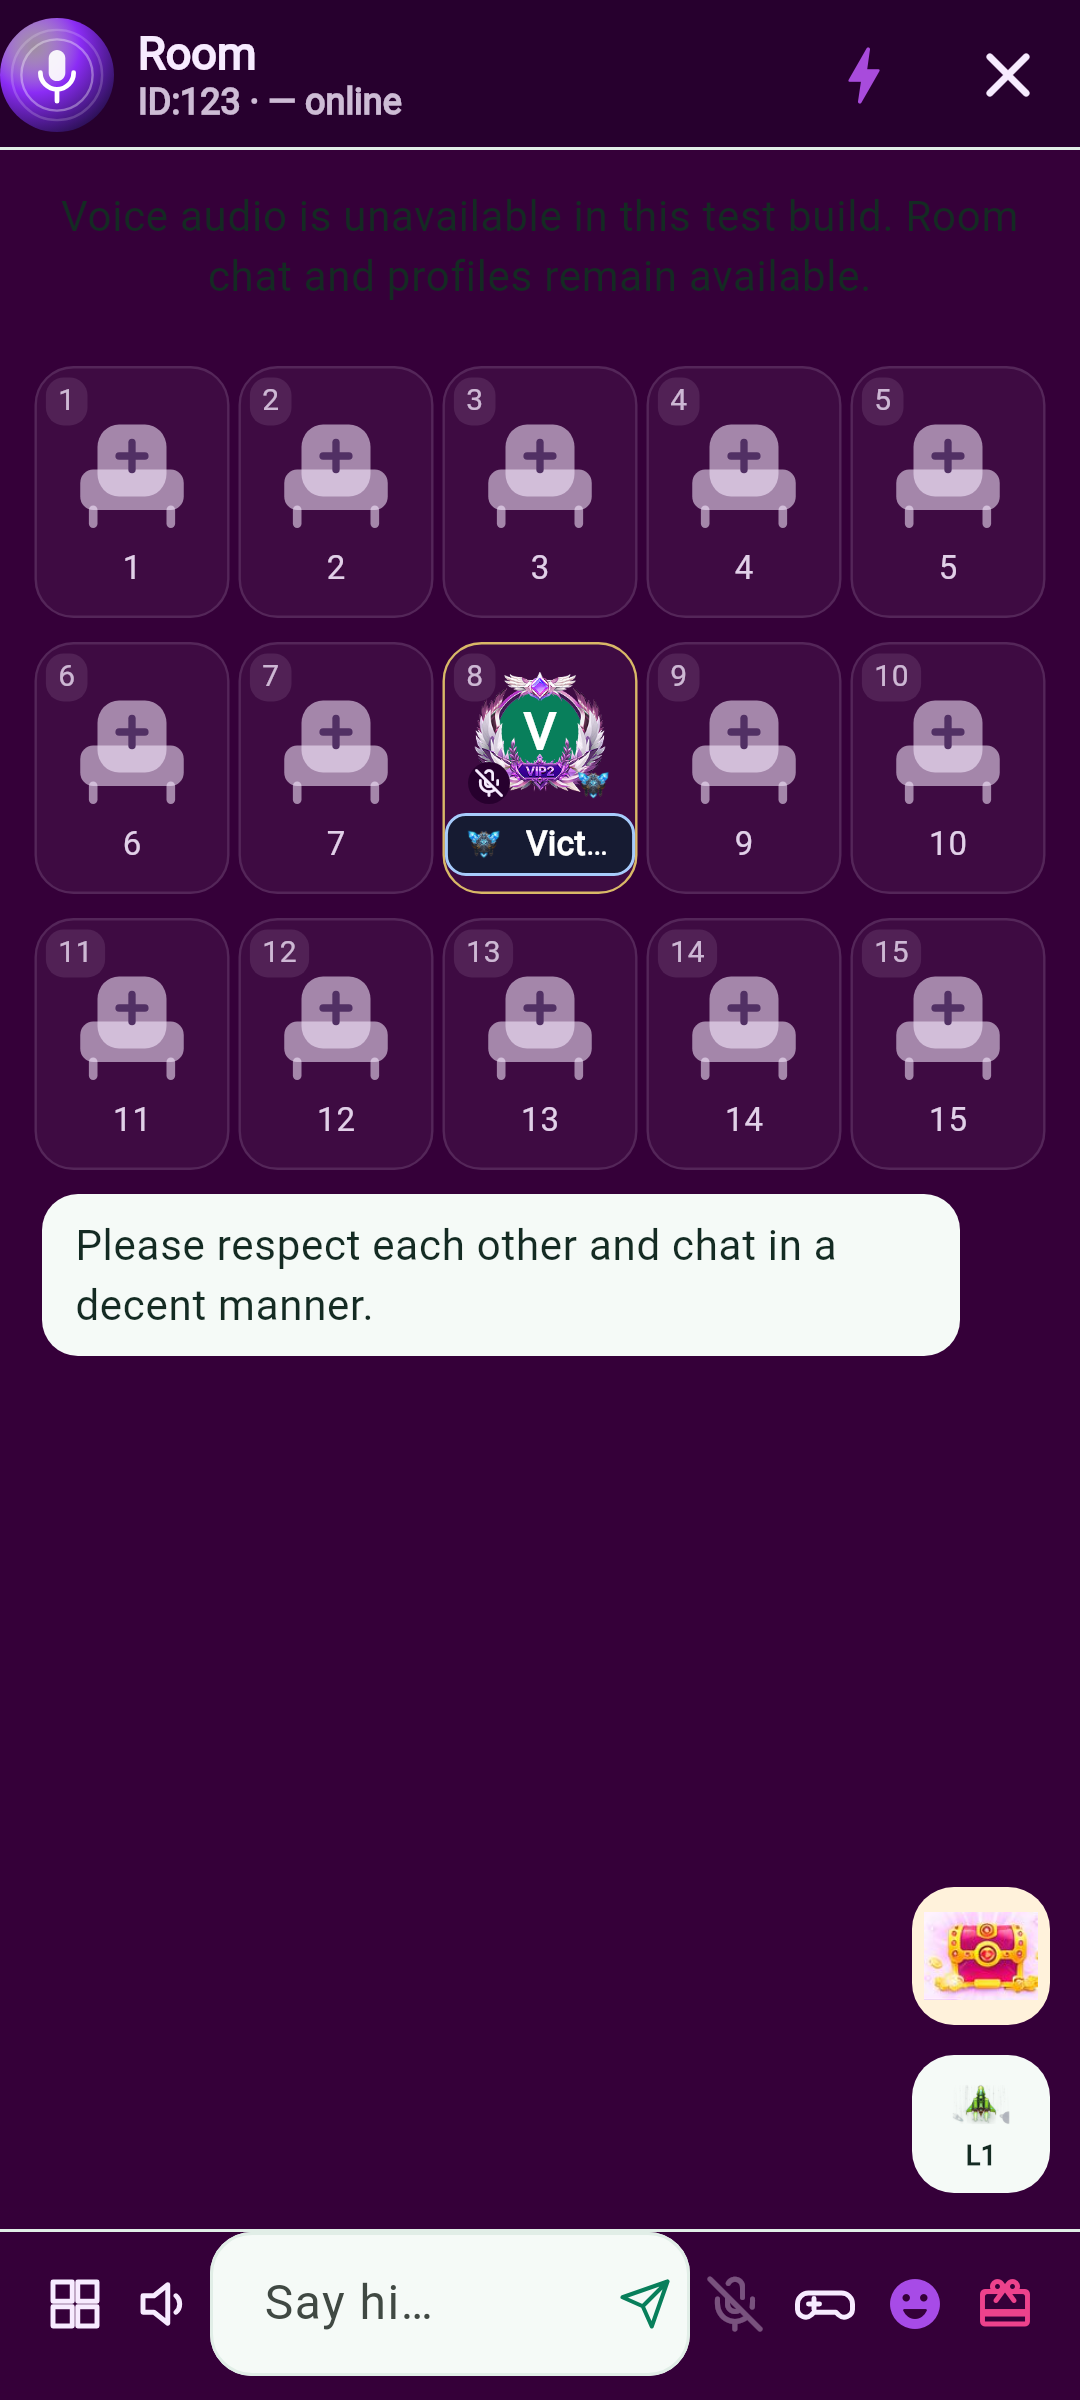
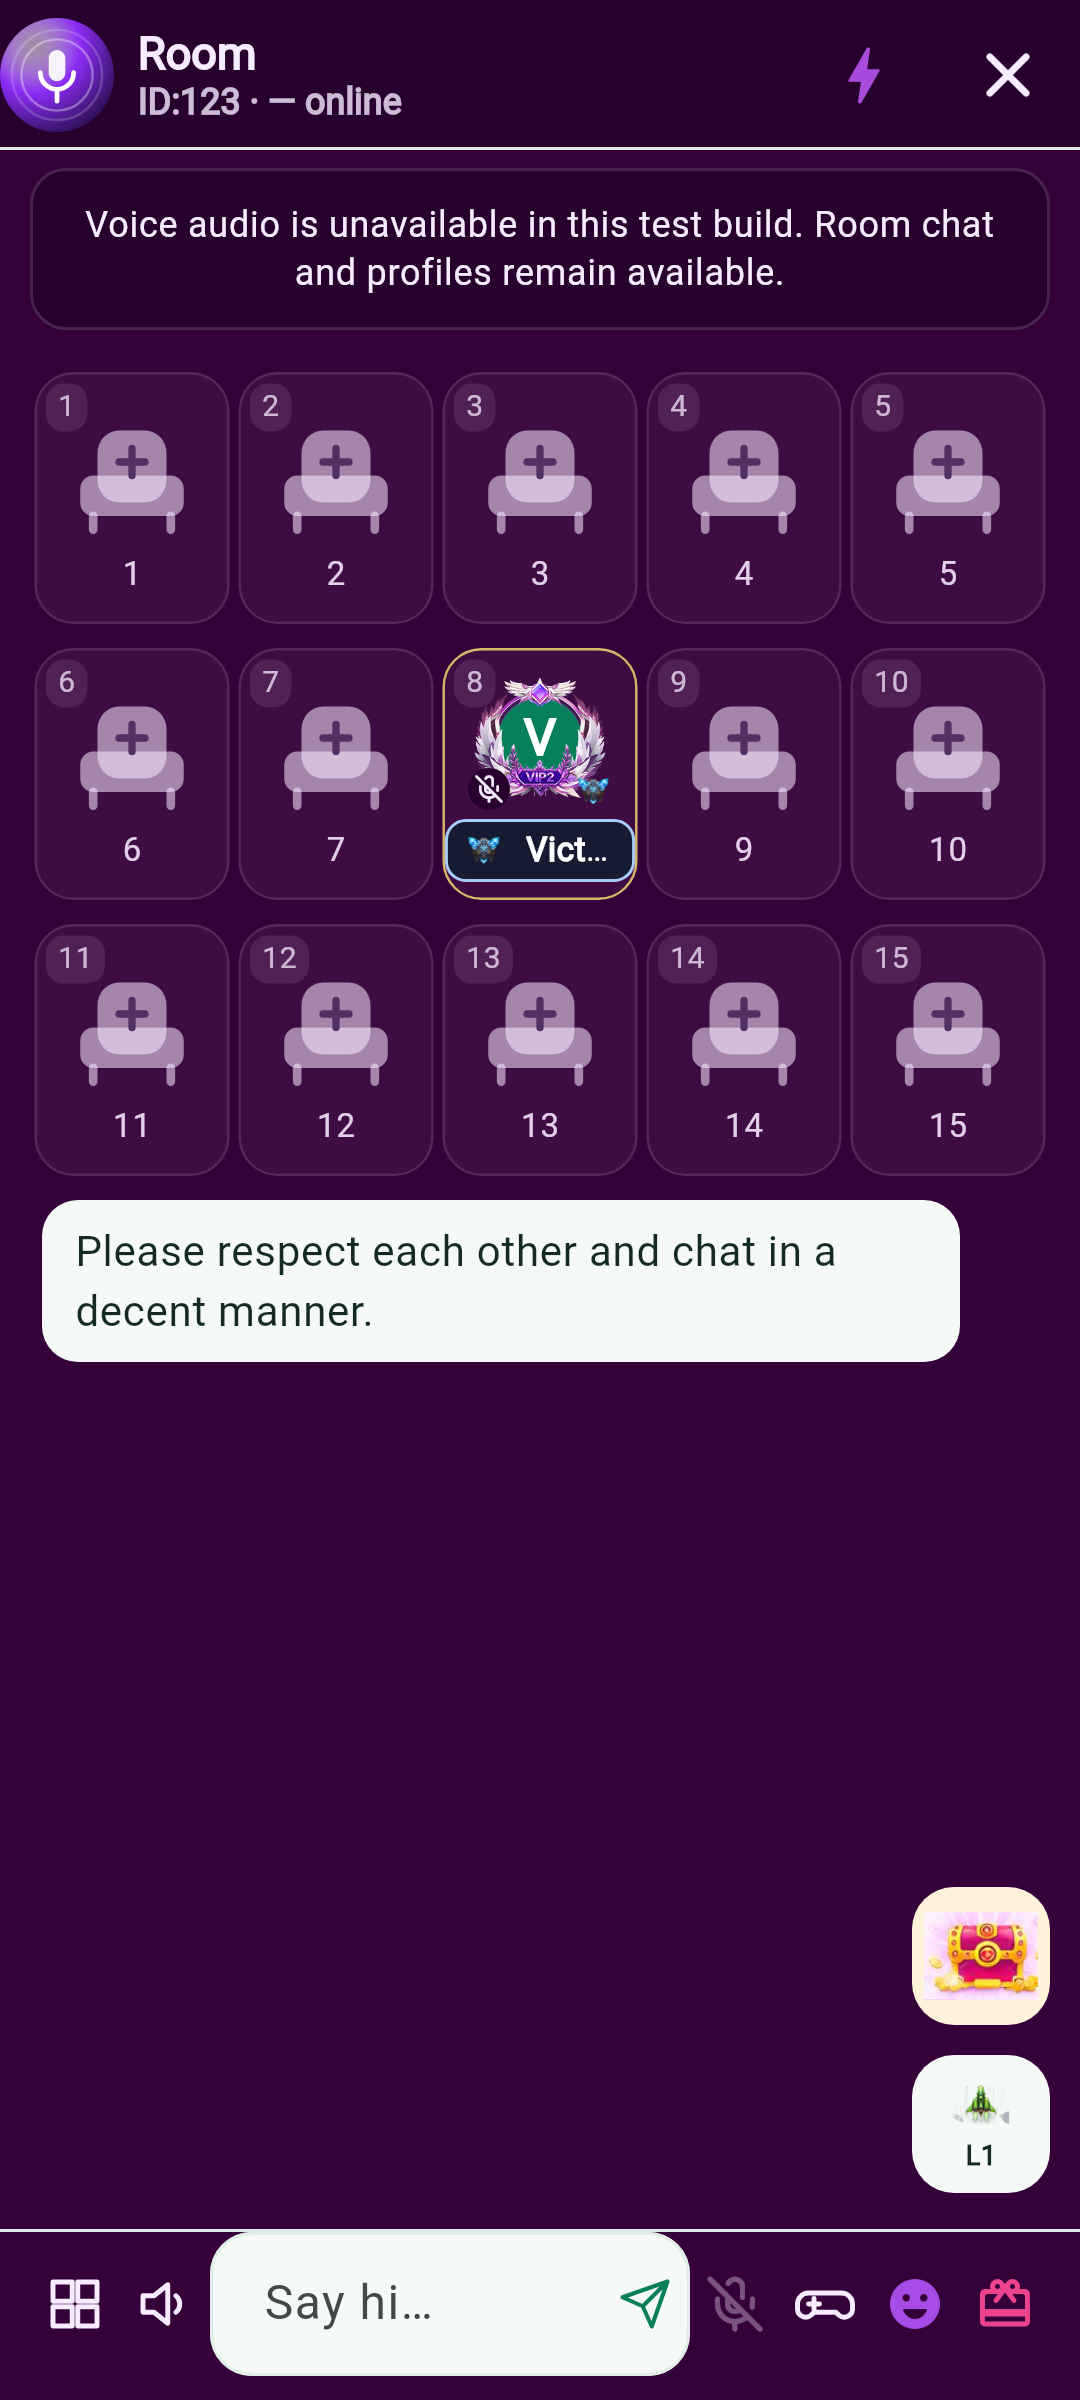
Fix dark-room voice status contrast before final APK delivery

diff --git a/nimzo/lib/features/rooms/presentation/room_screen.dart b/nimzo/lib/features/rooms/presentation/room_screen.dart
@@ -724,9 +724,24 @@ class _State extends ConsumerState<RoomScreen> {
                                       Padding(
                                           key: const ValueKey(
                                               'room-voice-unavailable'),
-                                          padding: const EdgeInsets.all(12),
-                                          child: Text(failure!,
-                                              textAlign: TextAlign.center))
+                                          padding: const EdgeInsets.symmetric(
+                                              horizontal: 10, vertical: 6),
+                                          child: Container(
+                                              padding: const EdgeInsets.all(10),
+                                              decoration: BoxDecoration(
+                                                  color: palette.gradient.first,
+                                                  borderRadius:
+                                                      BorderRadius.circular(12),
+                                                  border: Border.all(
+                                                      color: palette.text
+                                                          .withValues(
+                                                              alpha: .15))),
+                                              child: Text(failure!,
+                                                  textAlign: TextAlign.center,
+                                                  style: TextStyle(
+                                                      color: palette.text,
+                                                      fontSize: 12,
+                                                      height: 1.35))))
                                     else
                                       DataFailure(
                                           message: failure!, onRetry: join),

diff --git a/nimzo/test/issue15_room_walkthrough_test.dart b/nimzo/test/issue15_room_walkthrough_test.dart
@@ -146,6 +146,17 @@ void main() {
         expect(notice, findsOneWidget);
         expect(find.descendant(of: notice, matching: find.text('Retry')),
             findsNothing);
+        final noticeText =
+            find.descendant(of: notice, matching: find.byType(Text));
+        final foreground = DefaultTextStyle.of(tester.element(noticeText))
+            .style
+            .merge(tester.widget<Text>(noticeText).style)
+            .color!;
+        final a = foreground.computeLuminance();
+        final b = const Color(0xff27002e).computeLuminance();
+        final contrast = a > b ? (a + .05) / (b + .05) : (b + .05) / (a + .05);
+        expect(contrast, greaterThanOrEqualTo(4.5),
+            reason: 'Voice status must be readable in the dark room');
       }
       final toolsContext = tester.element(find.byTooltip('Party Tools'));
       expect(

diff --git a/docs/PROFILE_ROOM_SCREENSHOT_FIXES_20261024.md b/docs/PROFILE_ROOM_SCREENSHOT_FIXES_20261024.md
@@ -17,3 +17,5 @@ Initial red regressions reproduced permission misclassification, duplicated prof
 [Profile header](ui/profile-room-fixes-20261024/profile-header-host.png), [actual applied collections](ui/profile-room-fixes-20261024/profile-collections-host.png), [room-user card](ui/profile-room-fixes-20261024/room-card-host.png), [voice-deferred room](ui/profile-room-fixes-20261024/room-voice-deferred-host.png): actual Flutter host captures with explicit test state; not Android/physical-device screenshots.
 
 The owner explicitly requested a new APK with these fixes.1.0.43 is a TEST release, includes the latest Falla/Hafla source choices, retains existing genuine-media gaps and does not claim complete20-pack or authenticated Android acceptance. No automatic-update manifest is published. Development signing may differ from older test APKs; existing installations/data must be preserved if an update is rejected.
+
+Final visual review caught insufficient contrast in the dark-room voice-unavailable notice. A regression reproduced contrast below4.5:1; the corrected themed panel and text passed the contrast assertion and all7 occupied-room/reconnect checks. The earlier build attempt was cancelled before publication so only the corrected APK is delivered.
